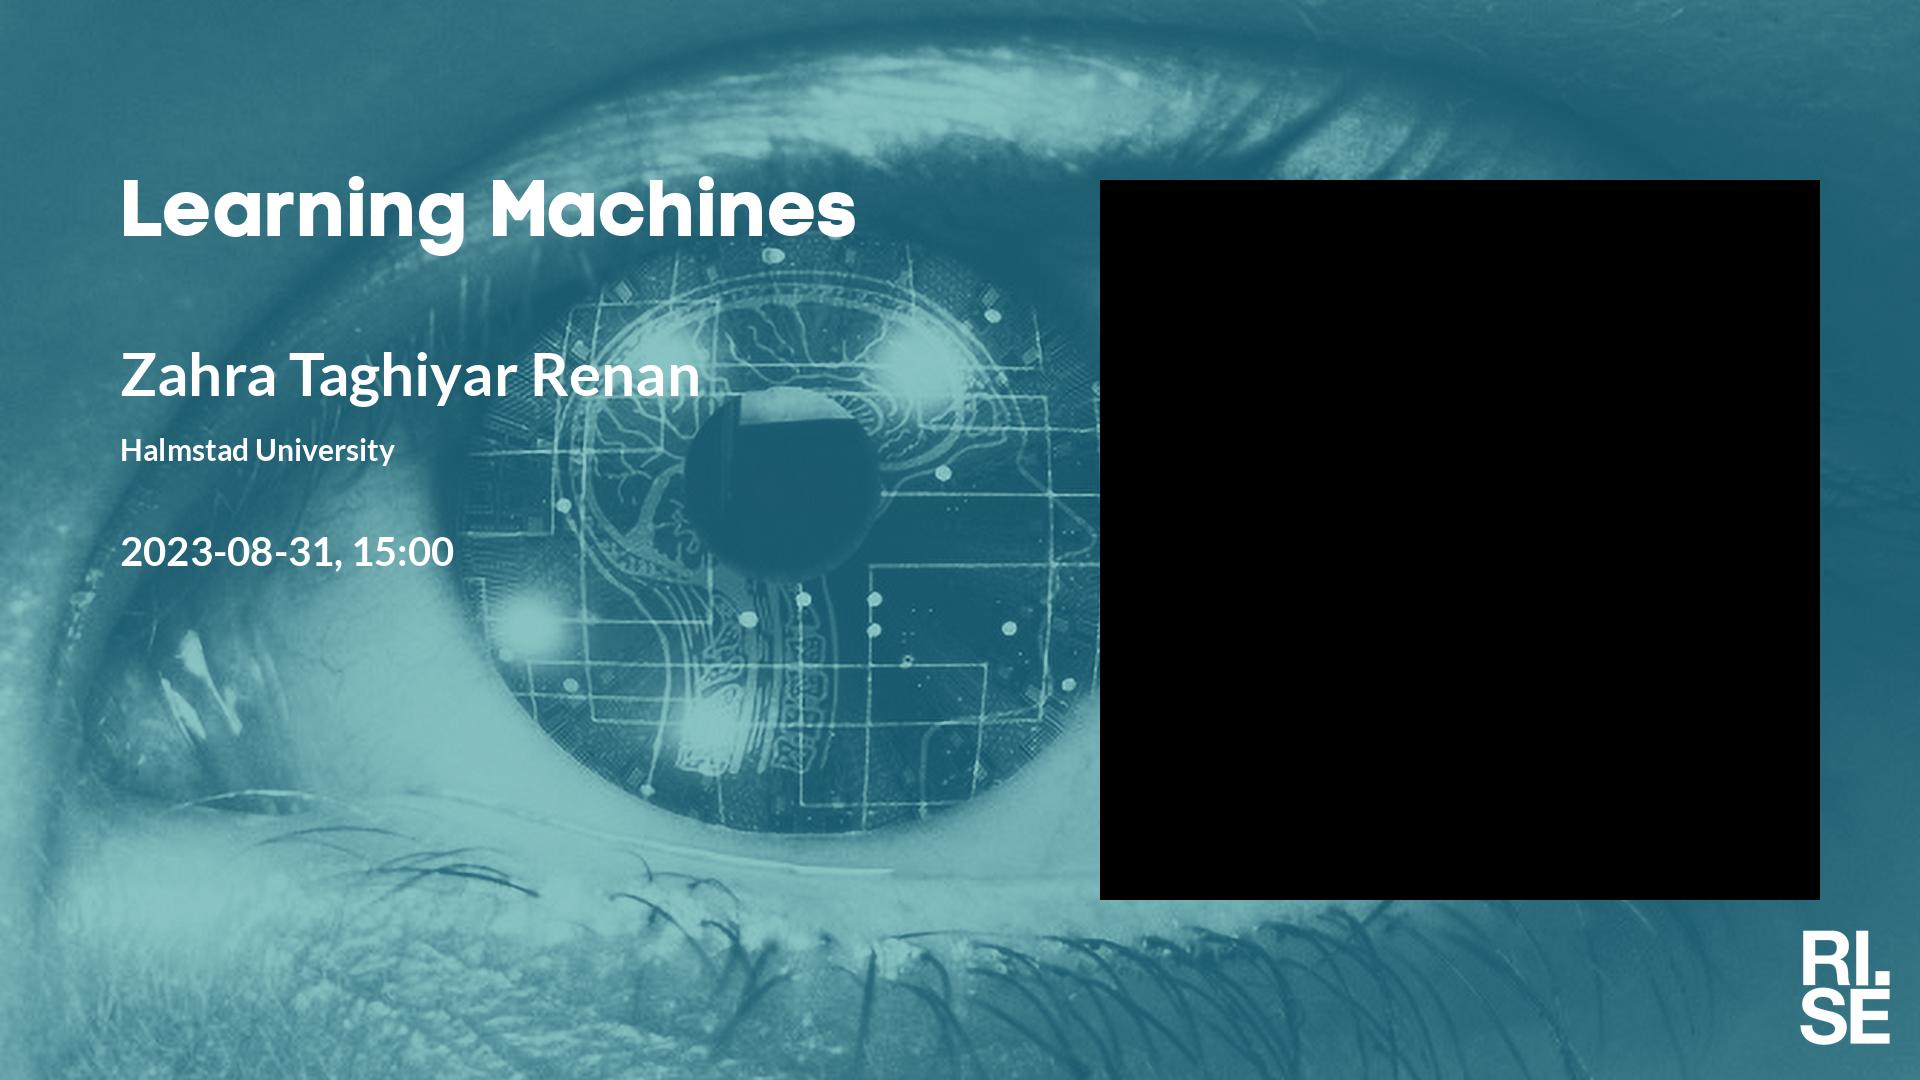
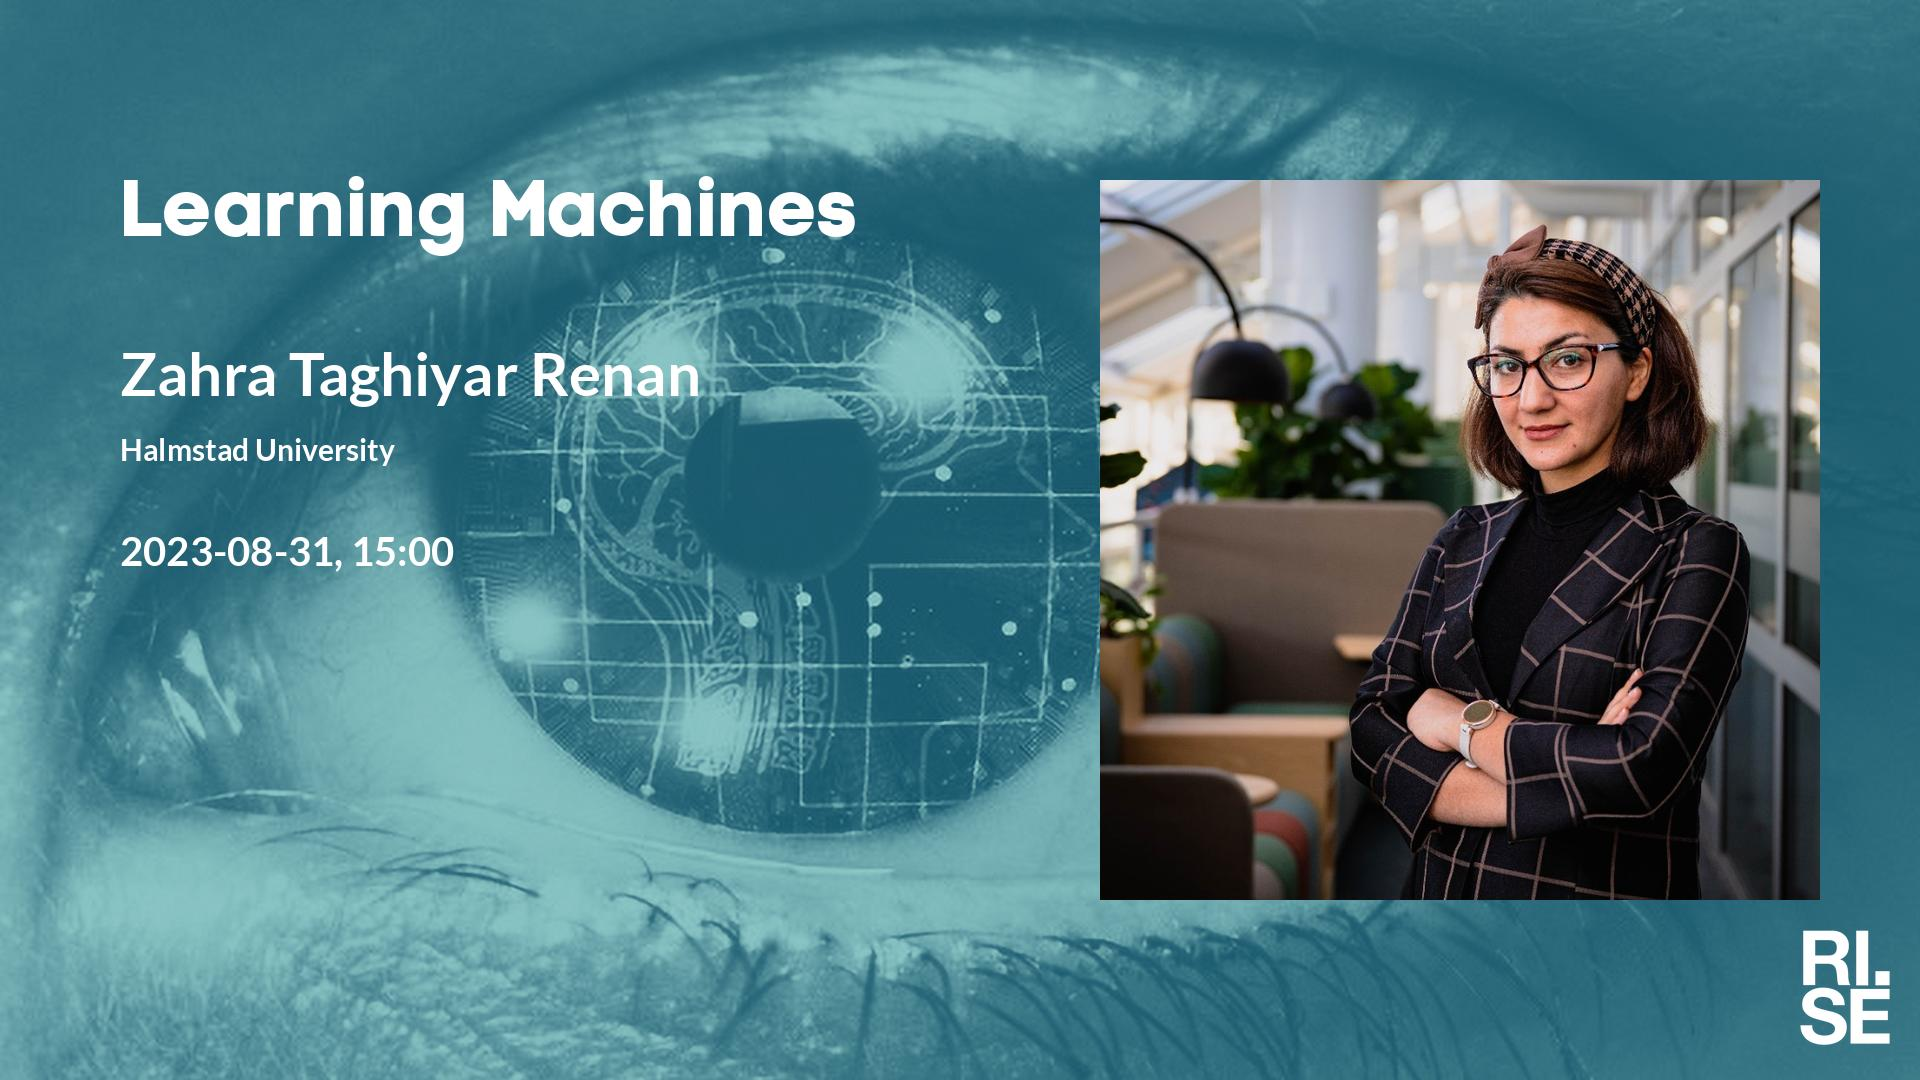
Updated plan on web site.

Changed region(s): [[0.5625, 0.1528, 0.9688, 0.8556]]

diff --git a/lm/index.md b/lm/index.md
@@ -10,7 +10,7 @@ table {border-collapse: collapse;}
 | date | speaker                                   | photo | shareable | meeting backdrop | youtube thumbnail | <a title="Speaker, Title, Abstract, Bio, Photo. Strikethrough means we don't have it yet.">comment</a>        |
 | ---- | ----------------------------------------- | ----- | ----- | ----- | ----- | -------------- |
 | <span style="color:red"> 2023-06-01 </span> | <span style="color:red"> SUMMER-BREAK! </span> | <span style="color:red">  </span> | <span style="color:red">  </span> | <span style="color:red">  </span> | <span style="color:red">  </span> | <span style="color:red"> CANCELLED </span> |
-|  2023-08-31  |  [Zahra Taghiyar Renan, Halmstad University](2023-08-31.md)  |    |  [social media ](social-media-zahra-taghiyar-renan.jpg)  |  [meeting backdrop ](meeting-backdrop-zahra-taghiyar-renan.jpg)  |  [youtube thumbnail ](youtube-thumbnail-zahra-taghiyar-renan.jpg)  |  STAB~~P~~  |
+|  2023-08-31  |  [Zahra Taghiyar Renan, Halmstad University](2023-08-31.md)  |  [photo](photo-zahra-taghiyar-renan.jpg)  |  [social media ](social-media-zahra-taghiyar-renan.jpg)  |  [meeting backdrop ](meeting-backdrop-zahra-taghiyar-renan.jpg)  |  [youtube thumbnail ](youtube-thumbnail-zahra-taghiyar-renan.jpg)  |  STABP  |
 | <span style="color:grey"> 2023-09-07 </span> | <span style="color:grey"> Zhirong Y. ? </span> | <span style="color:grey">  </span> | <span style="color:grey">  </span> | <span style="color:grey">  </span> | <span style="color:grey">  </span> | <span style="color:grey"> ?TAB~~P~~ </span> |
 |  2023-09-21  |  [Nico Lang, University of Copenhagen](2023-09-21.md)  |  [photo](photo-nico-lang.jpg)  |  [social media ](social-media-nico-lang.jpg)  |  [meeting backdrop ](meeting-backdrop-nico-lang.jpg)  |  [youtube thumbnail ](youtube-thumbnail-nico-lang.jpg)  |  STABP  |
 | <span style="color:grey"> 2023-09-28 </span> | <span style="color:grey"> Jaakko P. ? </span> | <span style="color:grey">  </span> | <span style="color:grey">  </span> | <span style="color:grey">  </span> | <span style="color:grey">  </span> | <span style="color:grey"> ?TAB~~P~~ </span> |
